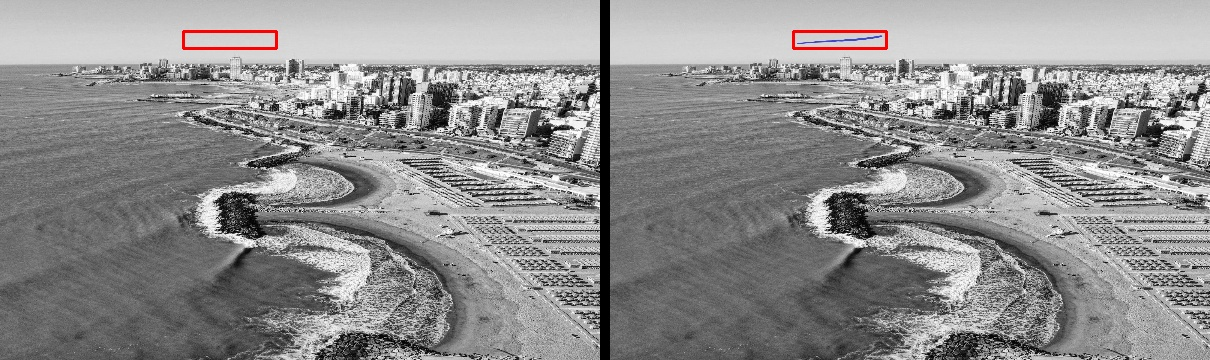
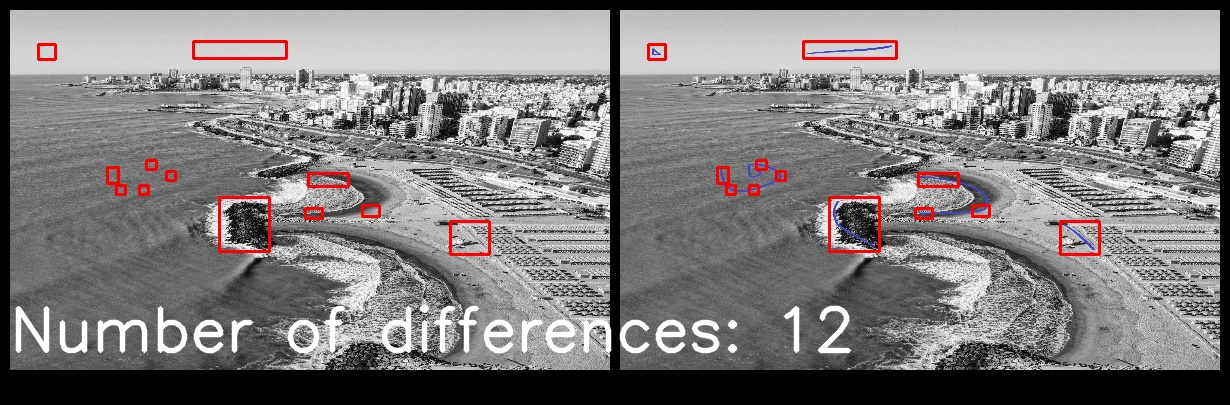
Added text on saved image

diff --git a/program.py b/program.py
@@ -1,8 +1,10 @@
+from asyncio.windows_events import NULL
 import cv2
 from cv2 import dilate
 import imutils
 import numpy as np
 import time
+import sys
 from sys import argv
 
 
@@ -14,34 +16,31 @@ start_time = time.time()
 
 title1 = 'Original'
 title2 = 'Altered'
-if(argv[1] == ""):
-    path1 = 'img/beach.jpeg'
-    path2 = 'img/beach_altered.jpeg'
-else:
+if(len(sys.argv) == 2):
     path1 = argv[1]
     path2 = argv[2]
-
+else:
+    path1 = 'img/beach.jpeg'
+    path2 = 'img/beach_altered.jpeg'
 
 savedImgPath = "imgDiff/newImg.jpeg"
 
 # Get data from user
 print('\n\nComparing 2 images...\n\n')
-# print('Enter path to original image:')
-# path1 = input()
-# print('Enter path to next image:')
-# path2 = input()
-
-# TODO: File found validation
-# TODO: File type validation
 
 
 # Load 2 images
 img1 = cv2.imread(path1)
 img2 = cv2.imread(path2)
 
+if (img1.any() or img2.any()) is None:
+    sys.exit("Could not read the image.")
+
 # resize
-img1 = cv2.resize(img1, (600,360))
-img2 = cv2.resize(img2, (600,360))
+imgX = 600
+imgY = 360
+img1 = cv2.resize(img1, (imgX,imgY))
+img2 = cv2.resize(img2, (imgX,imgY))
 
 # greyscale
 gray1 = cv2.cvtColor(img1, cv2.COLOR_BGR2GRAY)
@@ -95,7 +94,14 @@ else:
     # stack images
     x = np.zeros( (360,10,3), np.uint8) # add space between imgs
     result = np.hstack( (img1, x, img2) )
-    # cv2.imshow("Differences", result)
+
+    # create a border
+    result = cv2.copyMakeBorder(result,10,35,10,10,cv2.BORDER_CONSTANT)
+
+    # write text on image
+    numbDifferences = str(len(contours))
+    font = cv2.FONT_HERSHEY_SIMPLEX
+    cv2.putText(result,'Number of differences: '+ numbDifferences,(10,imgY - 10), font, 2,(255,255,255),4,cv2.LINE_AA)
 
     #save image
     cv2.imwrite(savedImgPath, result)
